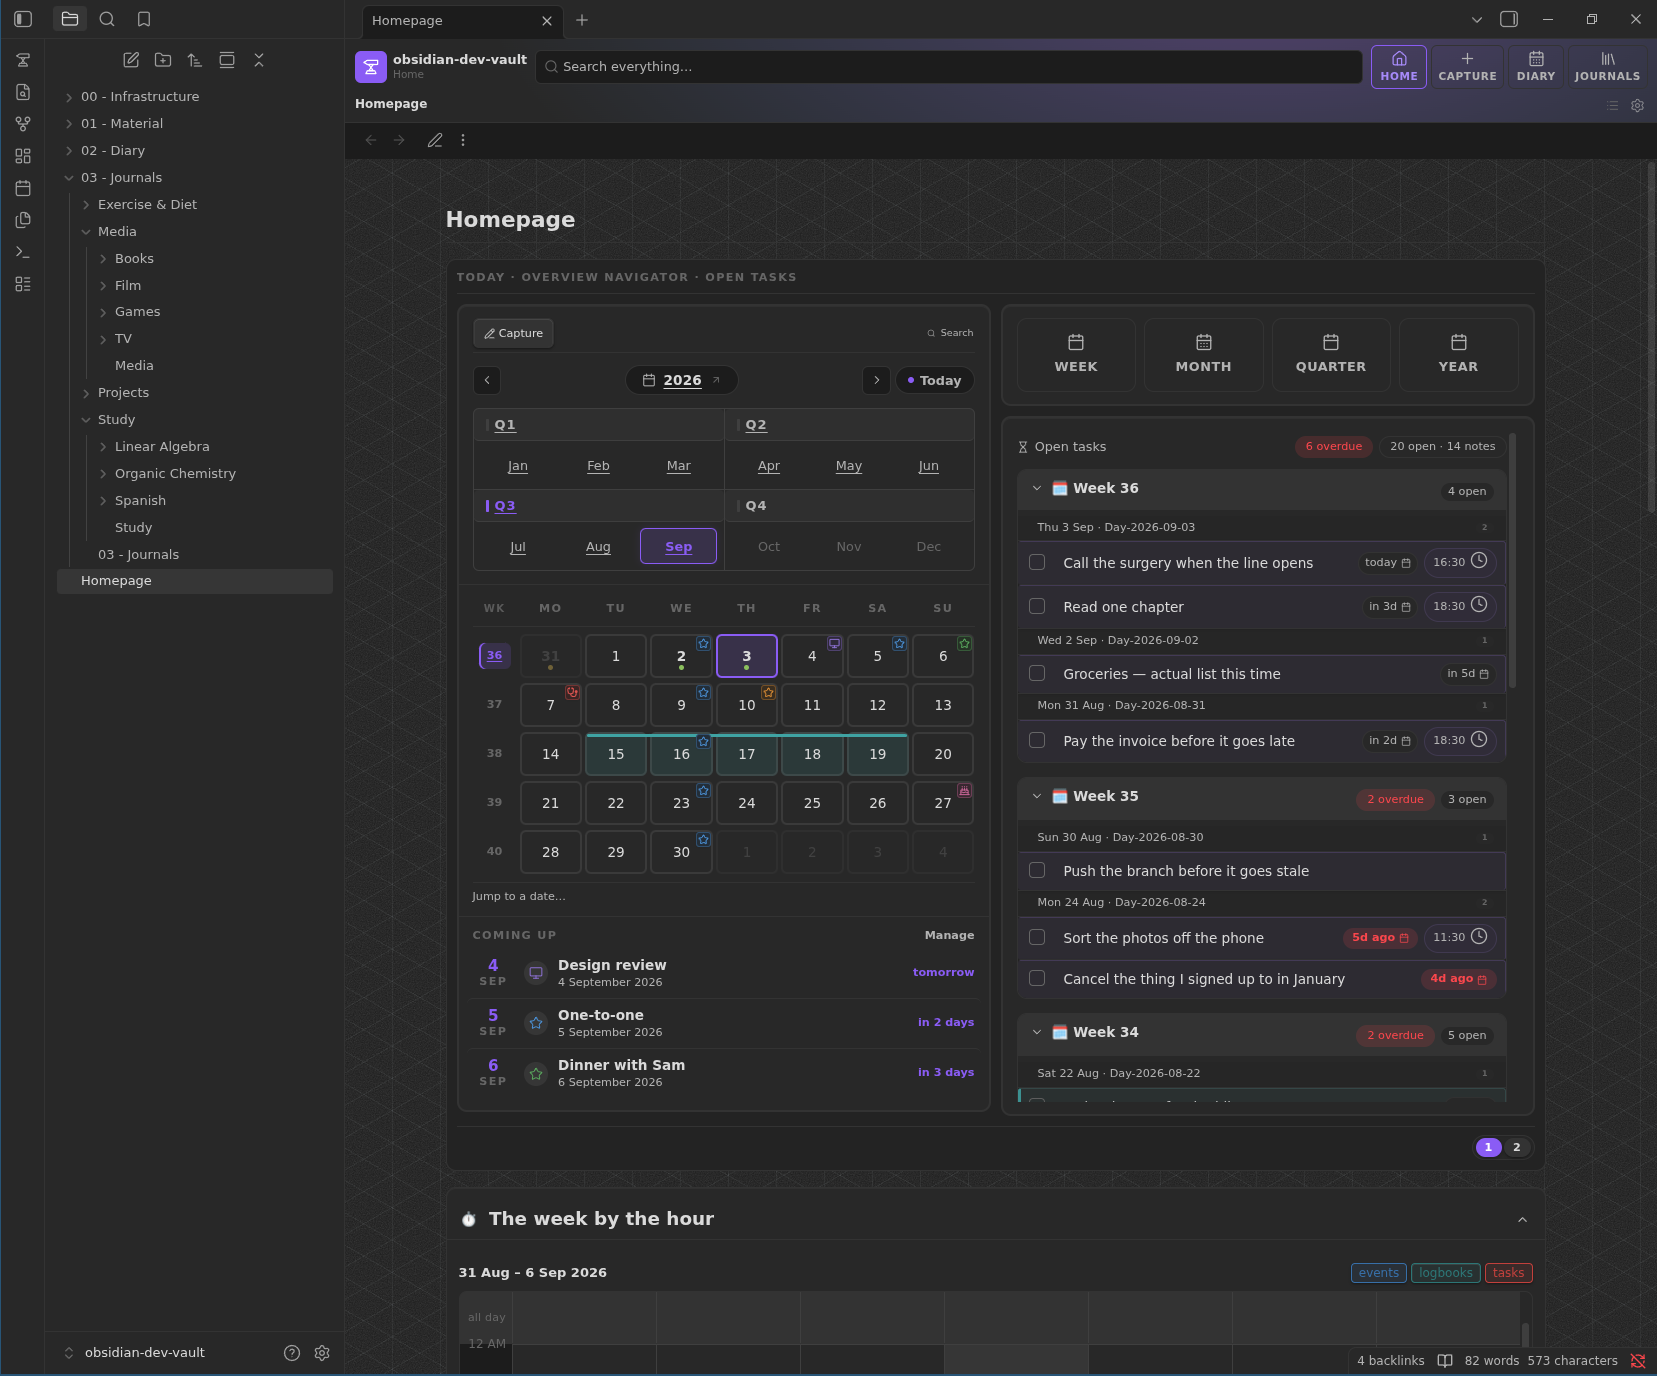
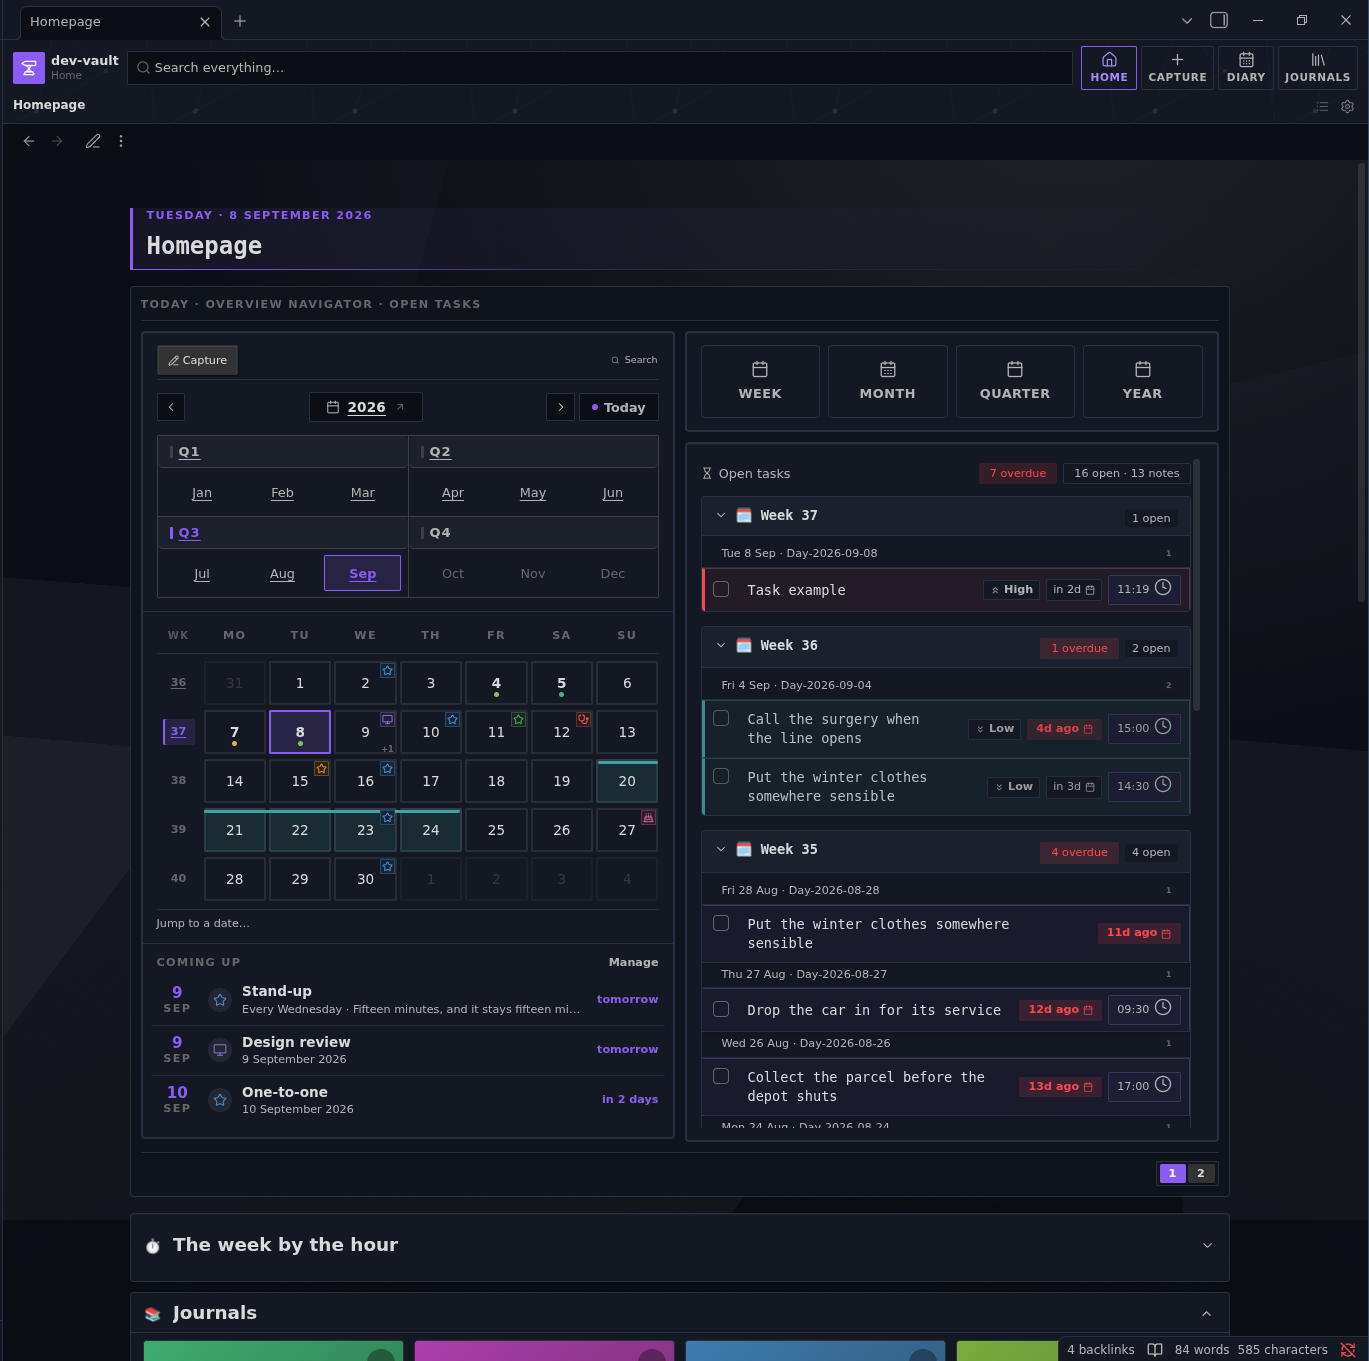
improve readme screenshots and bump to 1.0.1
Update visual tour captures with clean, sidebar-free screenshots from
a freshly seeded dev-vault:
- dashboard.png: sidebar-free homepage hero capture
- study-journal.png: modern ground with active Study journal cards
- section-composer.png: interactive section composer modal showing
  widget grouping, reordering and locked section constraints
- bump version to 1.0.1 in package.json and manifest.json with changelog

diff --git a/docs/screenshots/README.md b/docs/screenshots/README.md
@@ -21,7 +21,7 @@ deleting a row without deleting the file.
 | `study-journal.png` | The Study journal dashboard: subject cards (Linear Algebra, Organic Chemistry, Spanish), topics, confidence ratings, statistics strip, and activity heat map. |
 | `period-dashboard.png` | A yearly / period overview dashboard: annual stats, entry density histogram, quarters breakdown cards, and highlights recap digest. |
 | `journals.png` | The **Journals** settings panel: the four presets with their identifiers, root folders and structure, and the vault-wide folder emoji list. |
-| `section-composer.png` | The section and widget palette modal: modular catalogue of drag-and-drop sections and widgets for customizing notes and dashboards. |
+| `section-composer.png` | The section and widget composer modal: reordering sections, grouping side-by-side widgets, and customizing notes and dashboards. |
 | `quick-capture.png` | The Quick capture modal — destination note, timestamp, and the box. |
 | `logbook.png` | A logbook widget with its sub-logbook menu open: named books with entry counts, the Open / Done / Timed tabs, and the composer with its **Now** button. |
 | `settings.png` | Configuration and theme customizer: rich page ground textures (scanlines, dot grid, graph paper, weaves) and custom vault banner styling. |

diff --git a/README.md b/README.md
@@ -39,7 +39,7 @@ queries, no Templater scripts, no external chart plugins.
 
 | Journals, defined in settings | Modular section & widget catalogue |
 | :---: | :---: |
-| ![The Journals settings panel listing four presets with their folders and structure](docs/screenshots/journals.png) | ![The section and widget palette modal](docs/screenshots/section-composer.png) |
+| ![The Journals settings panel listing four presets with their folders and structure](docs/screenshots/journals.png) | ![The section and widget composer modal](docs/screenshots/section-composer.png) |
 | *Identifiers, root folders, levels and note types* | *Modular drag-and-drop section composer* |
 
 | Quick capture | Logbooks |

diff --git a/CHANGELOG.md b/CHANGELOG.md
@@ -5,6 +5,16 @@ All notable changes to ChronoAnvil will be documented in this file.
 The format is based on [Keep a Changelog](https://keepachangelog.com/en/1.0.0/),
 and this project adheres to [Semantic Versioning](https://semver.org/spec/v2.0.0.html).
 
+## [1.0.1] - 2026-09-08
+
+### Changed
+
+- **Visual tour screenshots.** Updated the visual tour captures with clean,
+  sidebar-free screenshots taken from a freshly seeded development vault.
+  Updated `dashboard.png` with a clean hero capture, `study-journal.png` with
+  modern styling, and `section-composer.png` to demonstrate the active
+  drag-and-drop section composer modal.
+
 ## [1.0.0] - 2026-09-07
 
 First public release.
